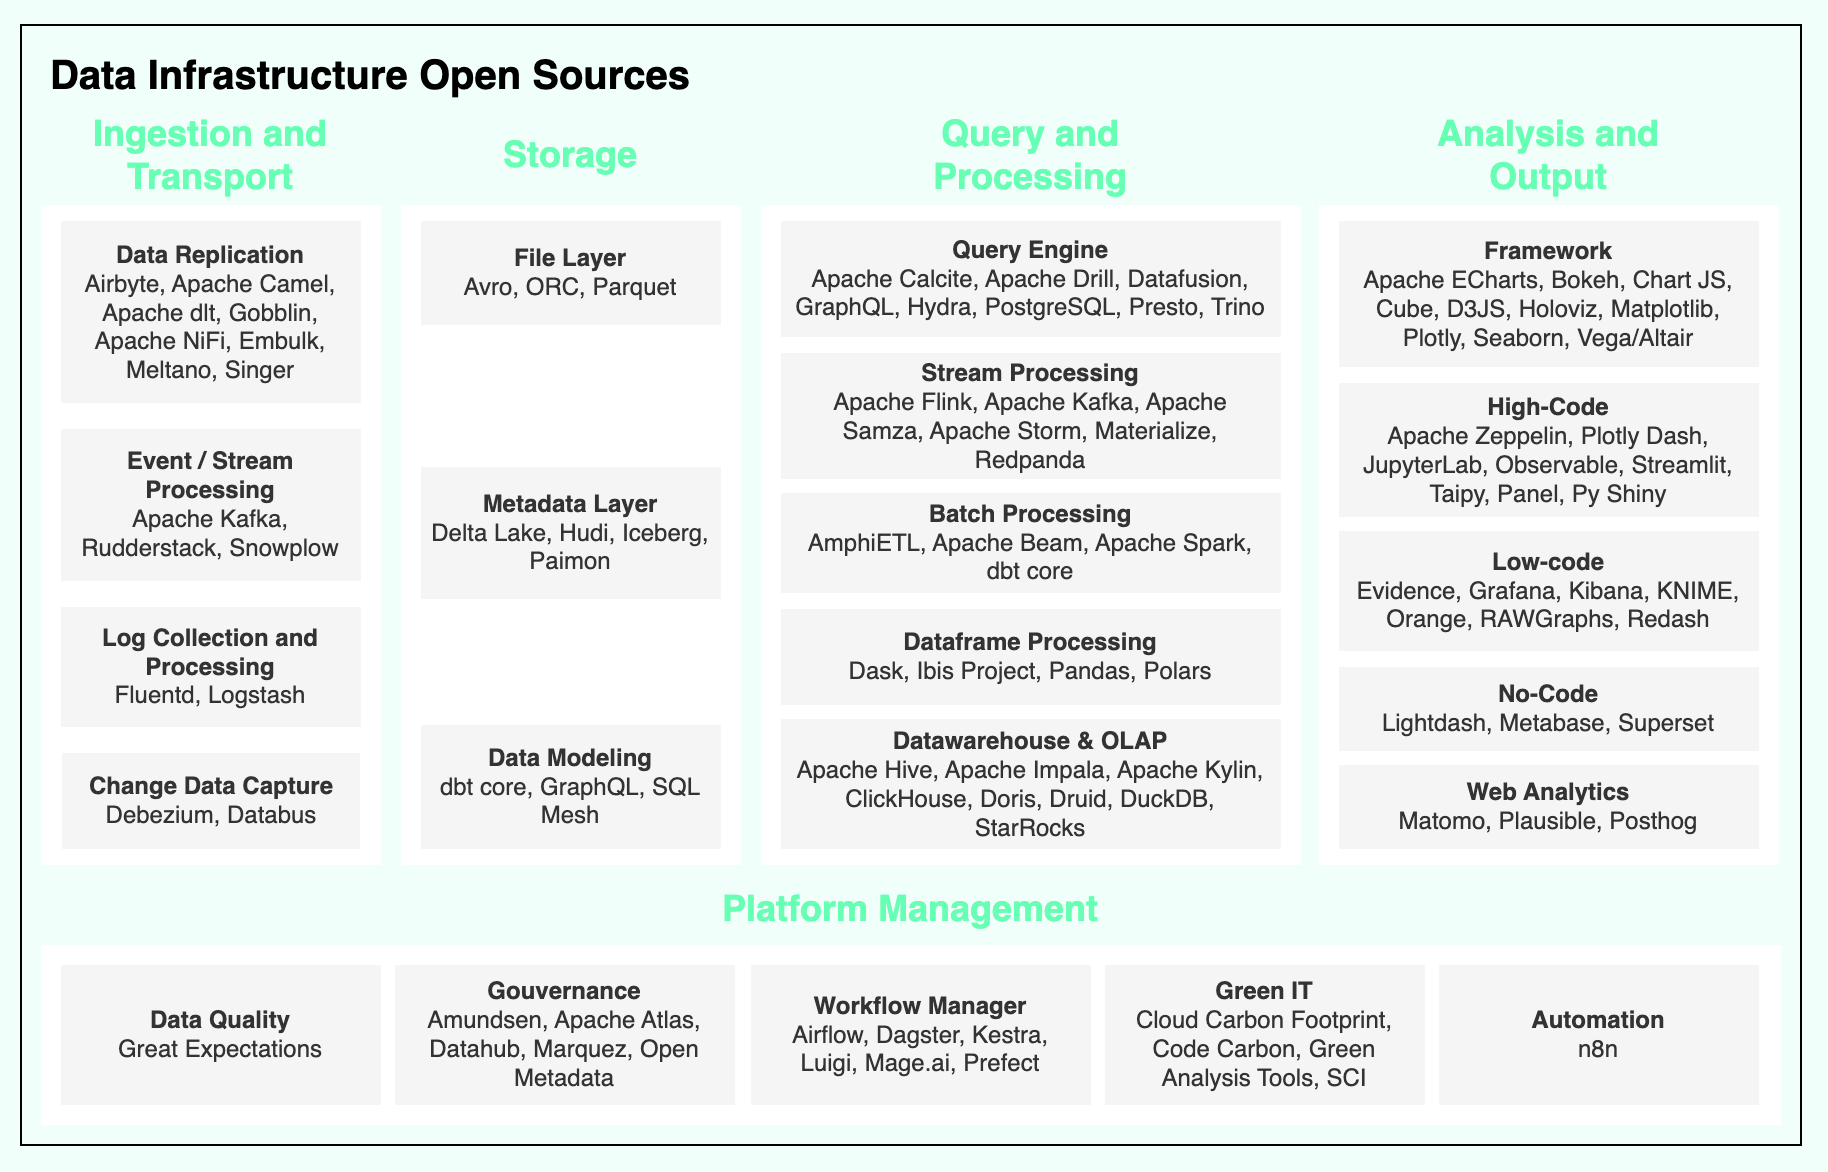
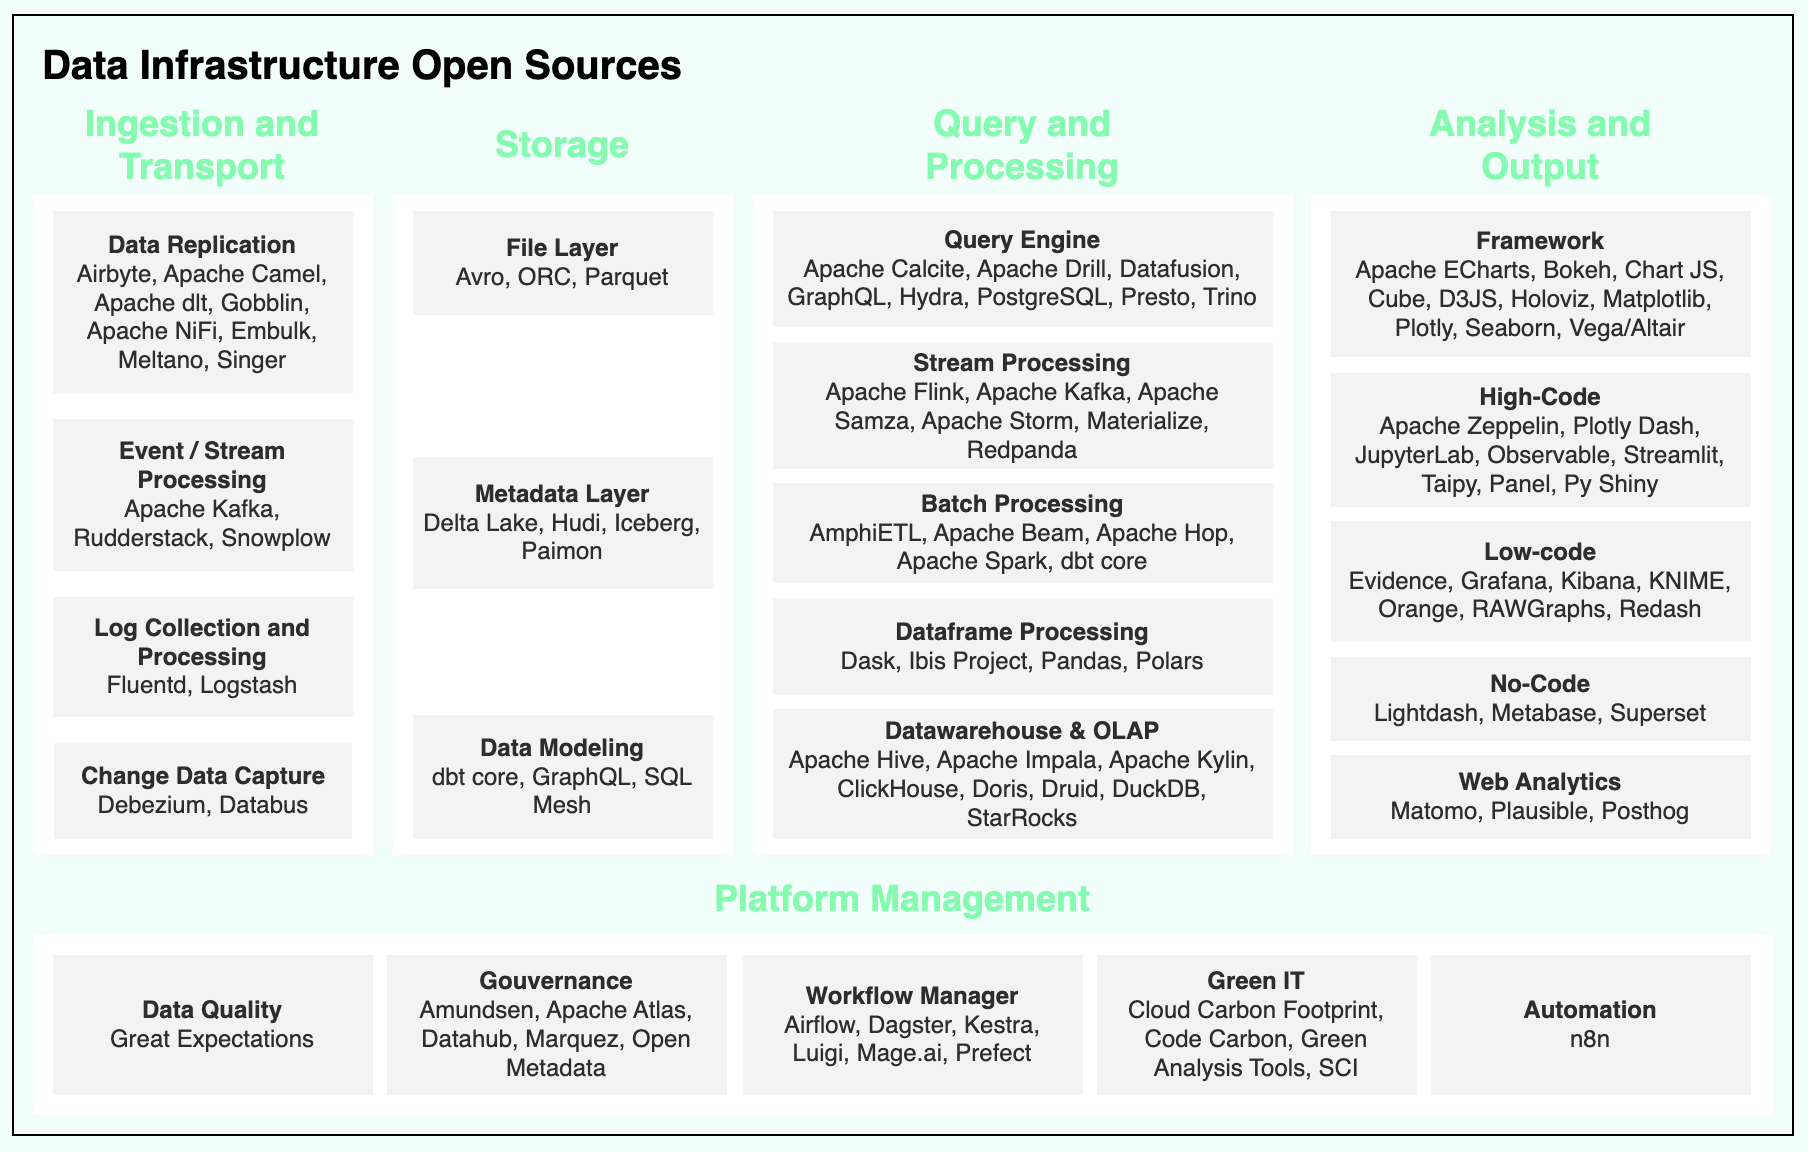
hop

diff --git a/03.query_and_processing.md b/03.query_and_processing.md
@@ -42,6 +42,7 @@ Here is a summary table of the main query and processing tools we have identifie
 |------|-------------|---------------|-------|-------|--------------|--------------|---------------|-----------------|------|
 | AmphiETL | Batch Processing | N/A | 858 | 37 | 2 | 20/03/2024 | N/A | Yes | https://github.com/amphi-ai/amphi-etl |
 | Apache Beam | Batch Processing | 20/02/2016 | 6.9k | 4.2k | 1270 | 15/06/2024 | N/A | Yes | https://github.com/apache/beam |
+| Apache Hop | Batch Processing | 24/09/2019 | 961 | 349 | 81 | 01/10/2024 | 22/10/2024 | Yes | https://github.com/apache/hop |
 | Apache Spark | Batch Processing | 26/03/2010 | 38.8k | 28.1K | 2094 | 10/06/2024 | N/A | Yes | https://github.com/apache/spark |
 | dbt core | Batch Processing | 09/02/2016 | 9.2k | 1.5k | 305 | 26/06/2024 | N/A | Yes | https://github.com/dbt-labs/dbt-core |
 
@@ -95,8 +96,9 @@ Here is a summary table of the main query and processing tools we have identifie
 
 1. **AmphiETL**: Cloud-native ETL platform built for modern data teams, offering scalable data transformations and integrations.
 2. **Apache Beam**: Unified programming model for batch and streaming data processing, offering language-specific SDKs.
-3. **Apache Spark**: Fast and general-purpose cluster computing system, providing high-level APIs in Java, Scala, Python and R.
-4. **dbt core**: Transforms data in warehouses by allowing analysts and engineers to define models using SQL SELECT statements.
+3. **Apache Hop**: Data orchestration and data engineering platform designed for visual development of data pipelines and workflows.
+4. **Apache Spark**: Fast and general-purpose cluster computing system, providing high-level APIs in Java, Scala, Python and R.
+5. **dbt core**: Transforms data in warehouses by allowing analysts and engineers to define models using SQL SELECT statements.
 
 ### Dataframe Processing
 
